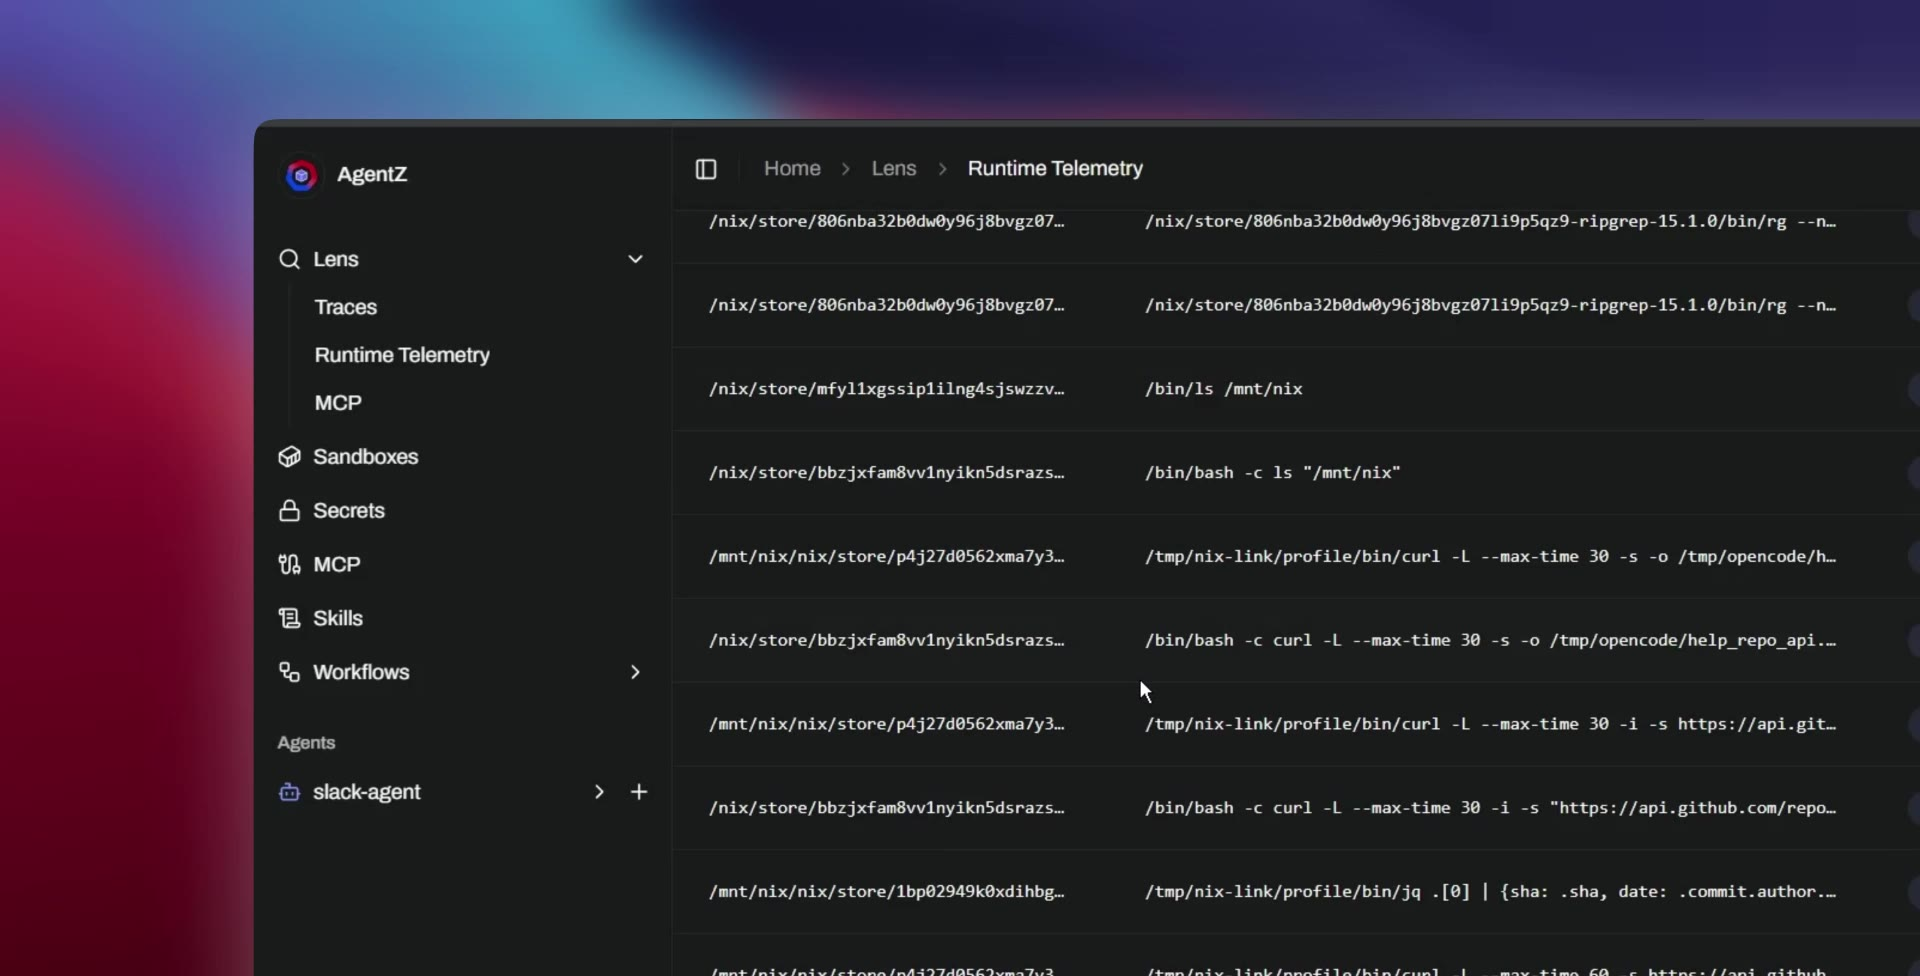
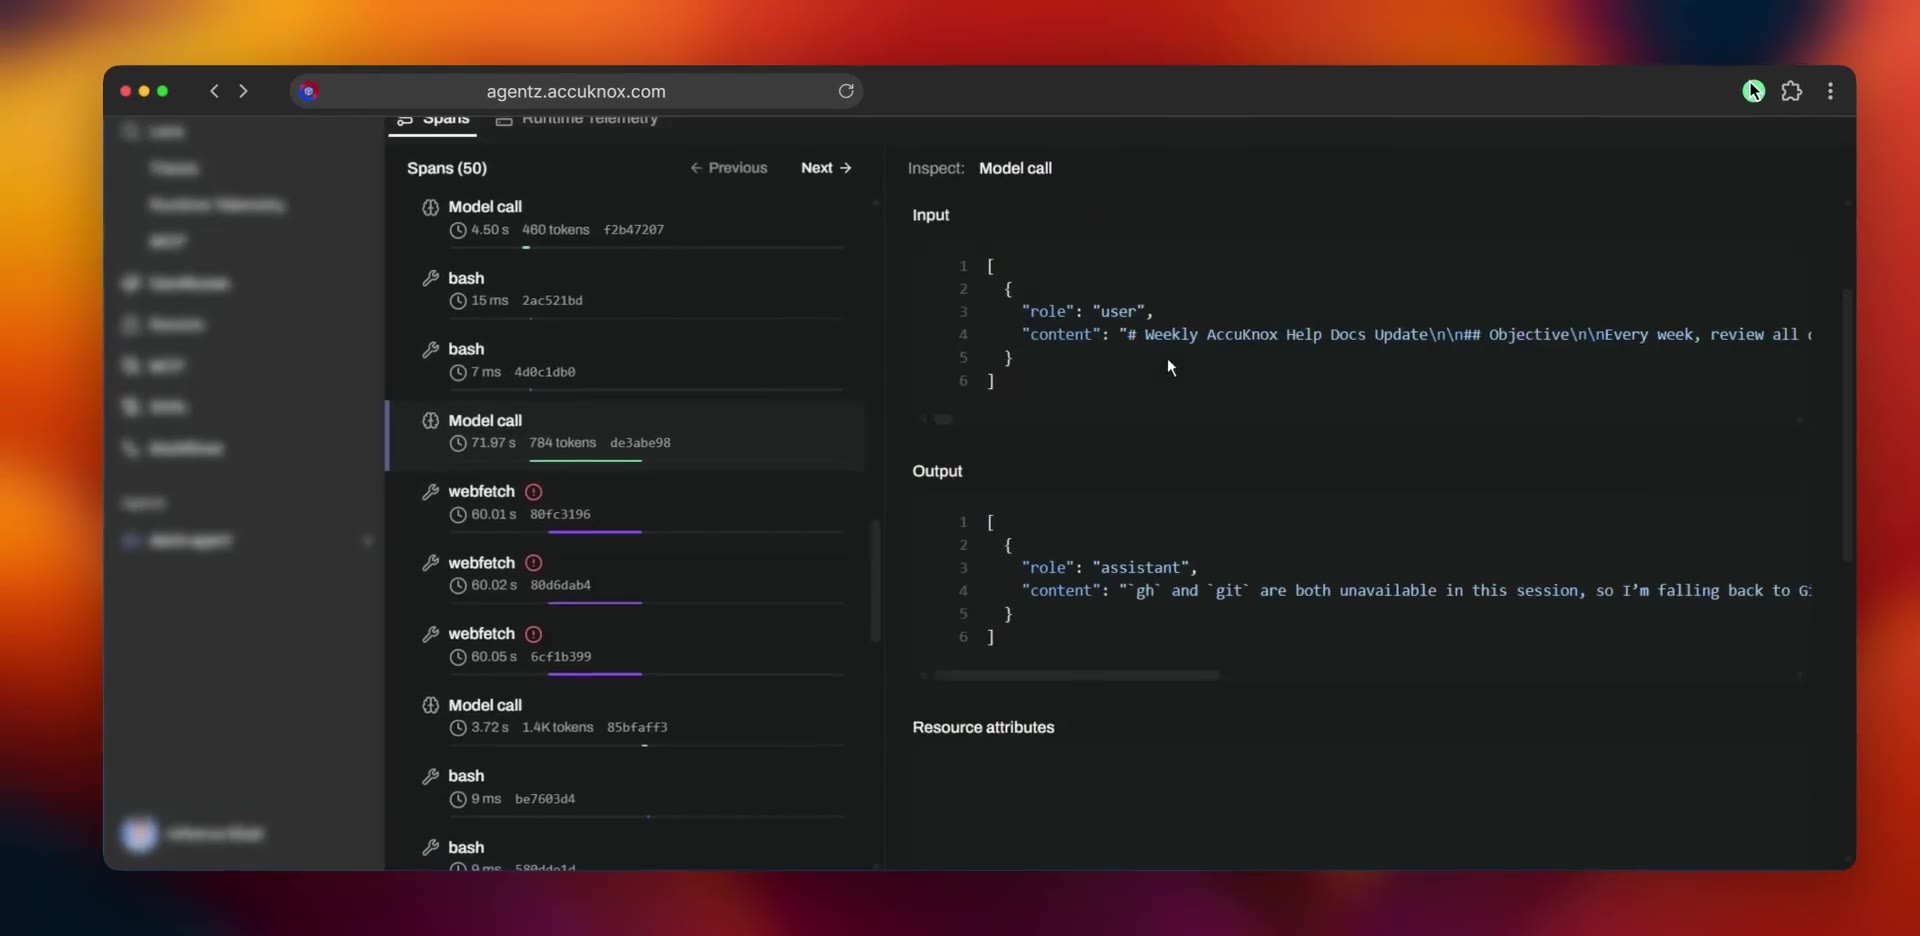
Swap in real trace/MCP-profiling footage, restore untrimmed hero clip
Split the new tour recording into a traces clip (0:00-0:22) and an MCP
profiling clip (0:24-end). The traces clip replaces both the "Read a
signed trace" card and the Runtime Intelligence section video. The MCP
profiling clip (a tool-call graph with per-call durations) fills the
last remaining placeholder card, "Guard a response" -> "Profile MCP
calls". Hero video is now the full 18s tour-clips/06_live-workflow-graph
clip instead of a 13s trim.

diff --git a/index.html b/index.html
@@ -10,7 +10,7 @@
 <link rel="preconnect" href="https://fonts.gstatic.com" crossorigin>
 <link href="https://api.fontshare.com/v2/css?f[]=general-sans@400,500,600,700&display=swap" rel="stylesheet">
 <link href="https://fonts.googleapis.com/css2?family=Instrument+Serif:ital@0;1&family=JetBrains+Mono:wght@400;500&display=swap" rel="stylesheet">
-<link rel="stylesheet" href="styles.css?v=52" />
+<link rel="stylesheet" href="styles.css?v=53" />
 </head>
 <body>
 
@@ -219,7 +219,7 @@
       <a class="video-card" href="#waitlist"><div class="vw vw-thumb"><video src="assets/video/card-mcp-connect.mp4" poster="assets/video/card-mcp-connect.jpg" autoplay muted loop playsinline preload="metadata" aria-label="Connecting an MCP server in AgentZ"></video></div><b>Connect an MCP server</b><p>Pick a provider, authorize, watch it go Ready.</p></a>
       <a class="video-card" href="#waitlist"><div class="vw vw-thumb"><video src="assets/video/card-schedule-cron.mp4" poster="assets/video/card-schedule-cron.jpg" autoplay muted loop playsinline preload="metadata" aria-label="Editing a cron schedule in AgentZ"></video></div><b>Schedule an agent</b><p>Set a cron, edit the schedule in place, no redeploy.</p></a>
       <a class="video-card" href="#waitlist"><div class="vw vw-thumb"><video src="assets/video/card-signed-trace.mp4" poster="assets/video/card-signed-trace.jpg" autoplay muted loop playsinline preload="metadata" aria-label="Reading a signed trace in AgentZ: span tree, per-call durations and token counts"></video></div><b>Read a signed trace</b><p>Inspect every span, down to the token.</p></a>
-      <a class="video-card" href="#waitlist"><div class="ph video-thumb"><span class="ph-play"><svg class="ico"><use href="#i-play"/></svg></span><span class="ph-label">Embed demo video</span></div><b>Guard a response</b><p>Run over real tools with policy at the edge.</p></a>
+      <a class="video-card" href="#waitlist"><div class="vw vw-thumb"><video src="assets/video/card-mcp-profiling.mp4" poster="assets/video/card-mcp-profiling.jpg" autoplay muted loop playsinline preload="metadata" aria-label="Profiling MCP tool calls in AgentZ: a call graph with per-call durations"></video></div><b>Profile MCP calls</b><p>See every tool call's latency in one graph.</p></a>
     </div>
   </div>
 </section>
@@ -528,6 +528,6 @@
 </main>
 
 <script async src="https://tally.so/widgets/embed.js"></script>
-<script src="script.js?v=52"></script>
+<script src="script.js?v=53"></script>
 </body>
 </html>